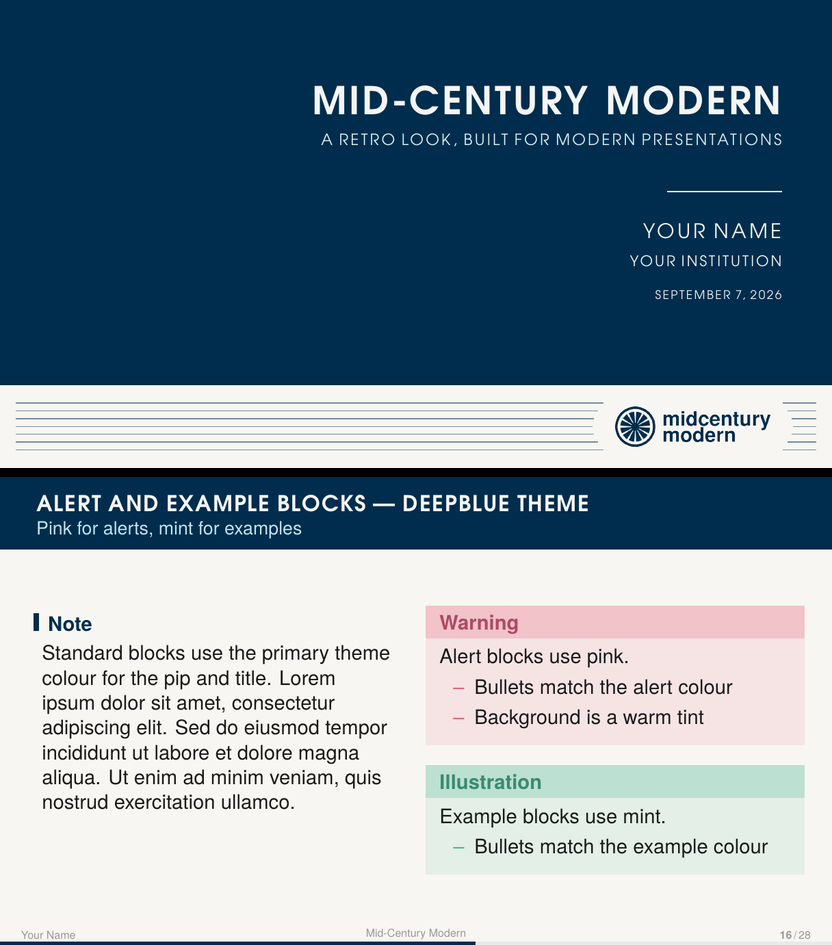
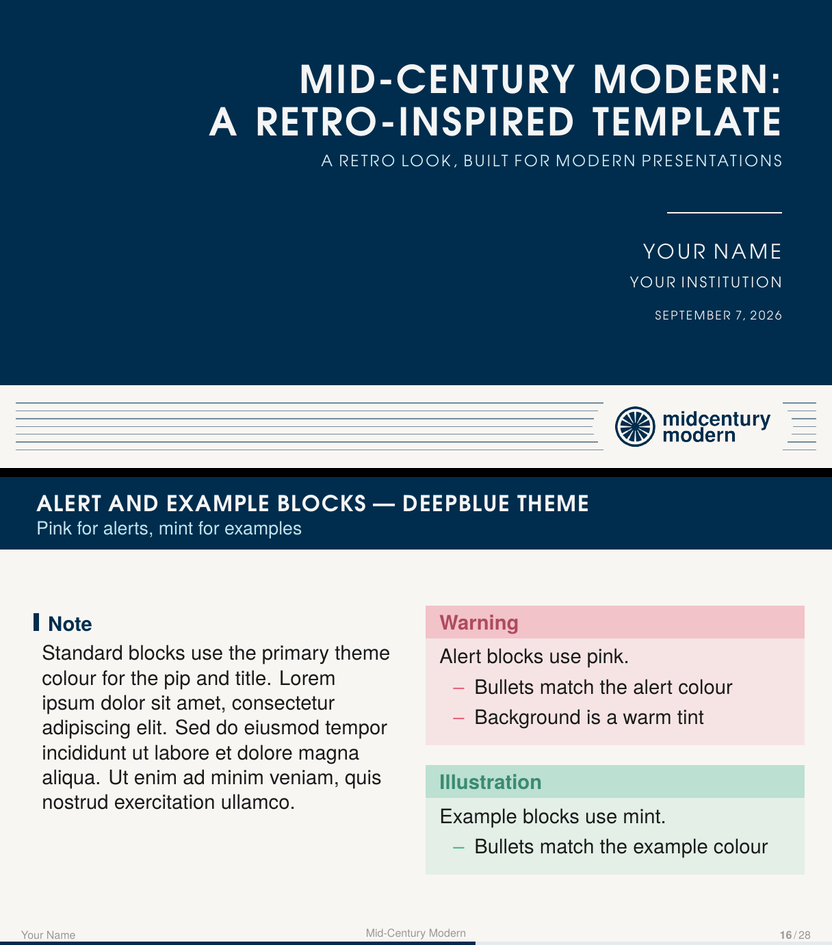
Restore the demo's full title, and drop the self-referential subtitle
The title page carries "Mid-Century Modern: A Retro-Inspired Template" again,
over the new subtitle. The name alone now goes in the optional short-title
argument, so the running footer stays "Mid-Century Modern" instead of
returning to "Mid-Century Modern:A Retro-Inspired Template" with its missing
space — the title page gets the full name back without the footer paying for
it.

"Adjustable Parameters" loses "Every slide can carry a subtitle like this
one". It was there to demonstrate the feature when nothing else used it; with
five slides now carrying real subtitles, a subtitle whose only subject is
itself is the odd one out.

Only pages 1 and 23 move, so three captures change — the ones showing page 1.
The other four come out byte-identical, which is the check that the short
title left every footer alone.

Claude Opus 5

Changed region(s): [[0.3125, 0.0614, 0.9375, 0.1841], [0.75, 0.2148, 0.9375, 0.3376], [0.25, 0.0921, 0.2812, 0.1534]]

diff --git a/demo.tex b/demo.tex
@@ -13,7 +13,7 @@
 % \mcmTheme{DeepBlue}
  % 
 % --- Metadata ---
-\title{Mid-Century Modern}
+\title[Mid-Century Modern]{Mid-Century Modern:\\A Retro-Inspired Template}
 \subtitle{A retro look, built for modern presentations}
 \author{Your Name}
 \institute{Your Institution}
@@ -309,7 +309,6 @@
 % =====================================================================
 
 \begin{frame}{Adjustable Parameters}
-  \framesubtitle{Every slide can carry a subtitle like this one}
   \begin{columns}[T]
     \begin{column}{0.56\textwidth}
       \begin{block}{Lengths}
